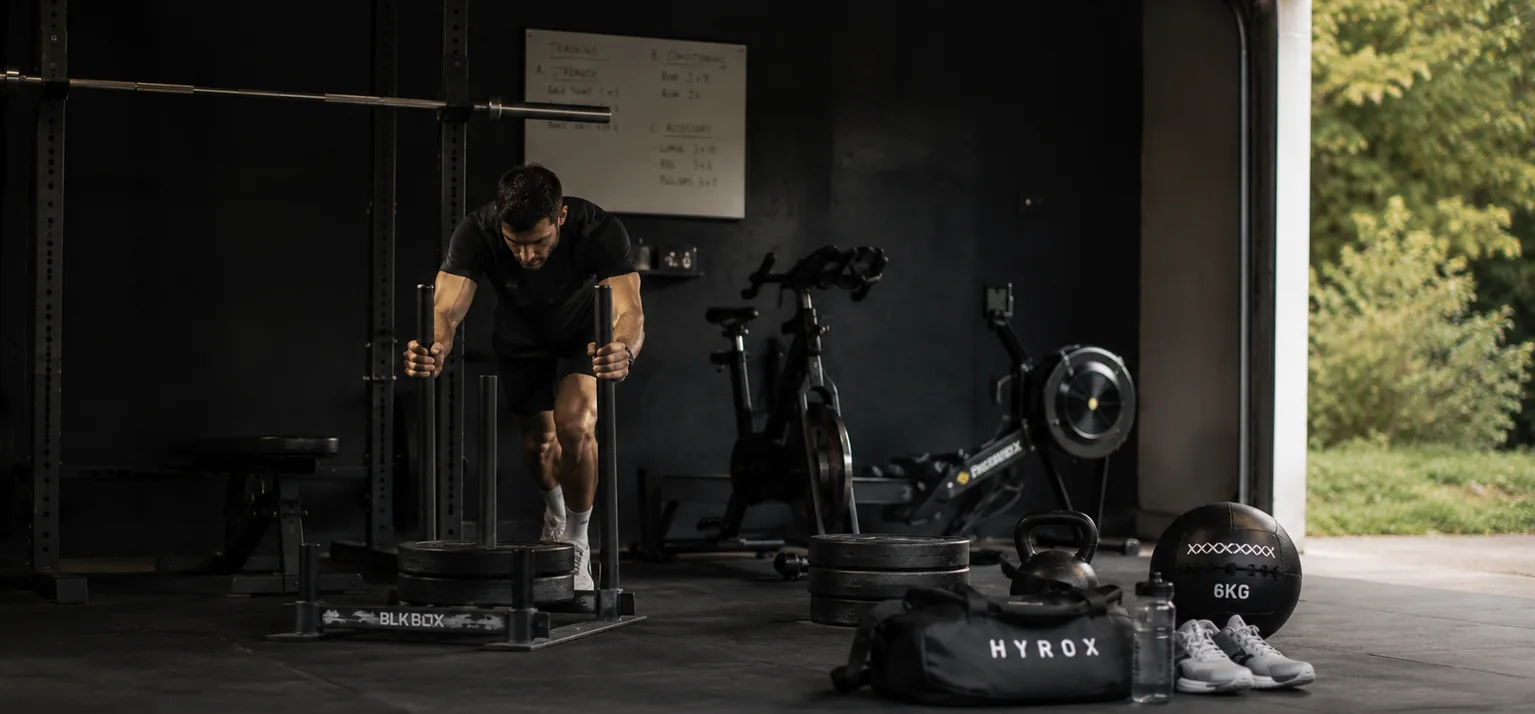
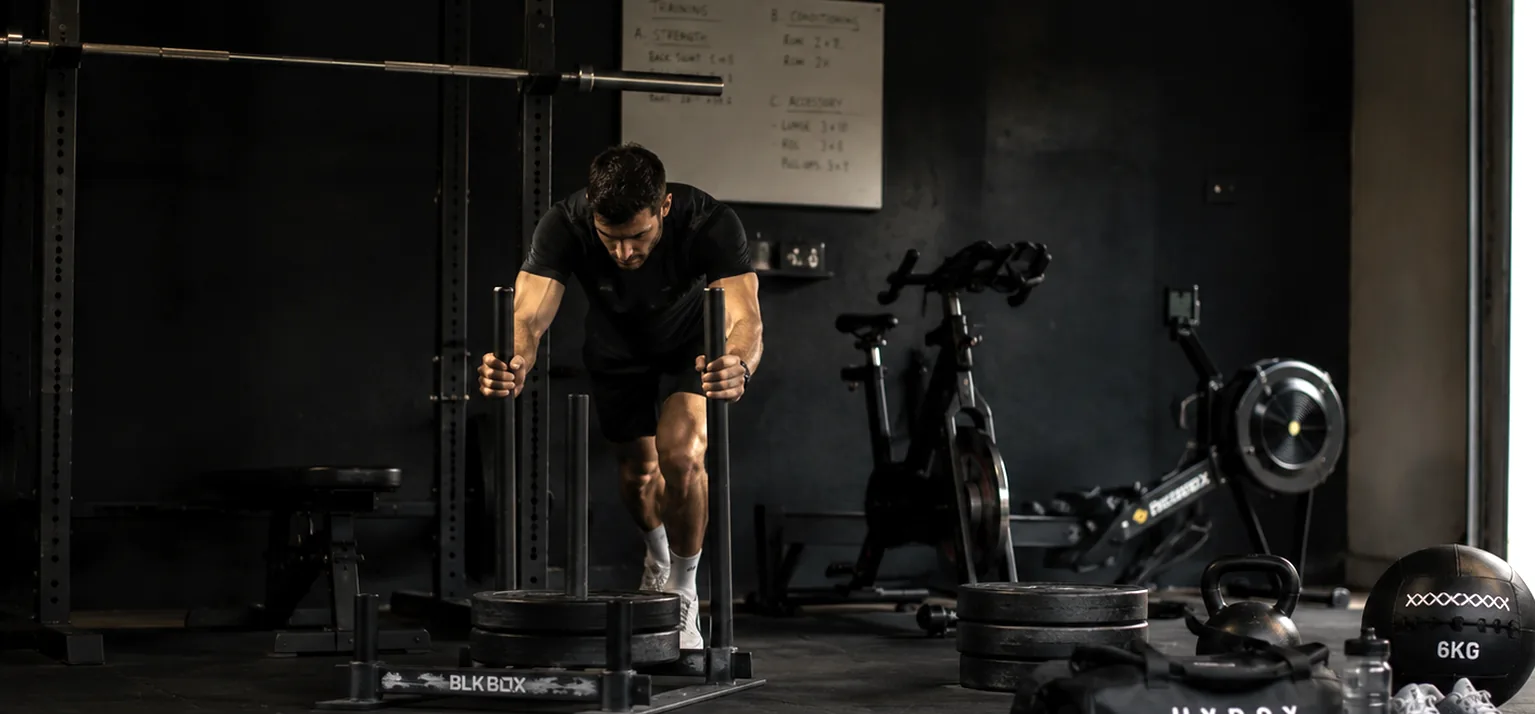
Add files via upload

diff --git a/plans/index.html b/plans/index.html
@@ -1,0 +1,134 @@
+<!DOCTYPE html>
+<html lang="en">
+<head>
+  <meta charset="UTF-8" />
+  <meta name="viewport" content="width=device-width, initial-scale=1, viewport-fit=cover" />
+  <base href="https://louistucker31.github.io/hybrid-performance/" />
+  <link rel="icon" type="image/svg+xml" href="assets/favicon.svg" />
+  <link rel="icon" type="image/png" href="assets/favicon.png" />
+  <link rel="apple-touch-icon" href="assets/apple-touch-icon.png" />
+  <title>Training Plans | Hybrid Performance Coaching</title>
+  <meta name="description" content="Structured strength and endurance training plans you follow on your own, with a PDF guide, spreadsheet tracker and full session breakdowns." />
+  <meta property="og:title" content="Training Plans | Hybrid Performance Coaching" />
+  <meta property="og:description" content="Structured strength and endurance training plans you follow on your own, with a PDF guide, spreadsheet tracker and full session breakdowns." />
+  <meta property="og:type" content="website" />
+  <meta property="og:image" content="https://hybridperformancecoaching.co.uk/assets/og-image.png" />
+  <link rel="preconnect" href="https://fonts.googleapis.com" />
+  <link rel="preconnect" href="https://fonts.gstatic.com" crossorigin />
+  <link href="https://fonts.googleapis.com/css2?family=Inter:wght@400;500;600;700&family=Oswald:wght@500;600;700&display=swap" rel="stylesheet" />
+  <link rel="stylesheet" href="css/style.css" />
+  <link rel="canonical" href="https://hybridperformancecoaching.co.uk/plans/" />
+</head>
+<body data-page="plans">
+  <div id="site-header"></div>
+
+  <main id="main">
+    <section class="page-hero-dark">
+      <div class="container">
+        <span class="eyebrow">Triathlon &amp; Endurance Plans</span>
+        <h1>Plans for people who train with purpose.</h1>
+        <p>Structured strength and endurance plans you follow on your own. View the plans on Gumroad below.</p>
+        <p class="small" style="margin-top:1rem; color:rgba(255,255,255,0.75)">Not sure this is the right fit? <a href="find-your-plan/" style="color:#7de3ab; font-weight:600">Find your plan &rarr;</a></p>
+      </div>
+    </section>
+
+    <section class="section band">
+      <div class="container">
+        <h2>Available training plans</h2>
+        <p class="muted" style="margin-top:0.6rem; max-width:64ch">Every plan includes a PDF guide, a spreadsheet tracker, weekly structure, session breakdowns, progression and substitutions, plus notes on fatigue and recovery.</p>
+
+        <div class="plan-list" style="margin-top:1.75rem">
+          <div class="plan-row">
+            <div>
+              <div class="plan-row__meta">
+                <span class="tag">Beginner</span>
+              </div>
+              <h3>5K Plan for Lifters</h3>
+              <p>Start running without abandoning the gym or losing strength. Run progression managed around leg days.</p>
+            </div>
+            <a class="btn btn--primary" href="5k-plan-for-lifters/">See plan details</a>
+          </div>
+
+          <div class="plan-row">
+            <div>
+              <div class="plan-row__meta">
+                <span class="tag">Triathlon</span>
+              </div>
+              <h3>First Sprint Triathlon</h3>
+              <p>Your first sprint triathlon while keeping meaningful strength work in the week, with a race-week taper.</p>
+            </div>
+            <a class="btn btn--primary" href="first-sprint-triathlon/">See plan details</a>
+          </div>
+
+          <div class="plan-row plan-row--soon">
+            <div>
+              <div class="plan-row__meta">
+                <span class="tag tag--muted">Endurance</span>
+              </div>
+              <h3>Century Ride Blueprint</h3>
+              <p>Train toward a long-distance cycling event with progressive long rides, fuelling guidance and strength for durability.</p>
+            </div>
+            <span class="btn btn--ghost" aria-disabled="true" style="pointer-events:none; color:var(--ink-faint)">Coming Soon</span>
+          </div>
+        </div>
+
+        <div style="text-align:center; margin-top:1.75rem">
+          <a class="btn btn--ghost" href="bespoke/">Want a bespoke plan instead?</a>
+        </div>
+      </div>
+    </section>
+
+    <section class="section">
+      <div class="container" style="max-width:760px">
+        <div class="section-head">
+          <span class="eyebrow">FAQs</span>
+          <h2>Common questions about the plans.</h2>
+        </div>
+        <div>
+          <details class="faq-item">
+            <summary>What's included in each training plan?</summary>
+            <p>Every plan comes with a PDF guide and a spreadsheet tracker, covering weekly structure, session breakdowns, progression and substitutions, plus notes on managing fatigue and recovery.</p>
+          </details>
+          <details class="faq-item">
+            <summary>Do I need a gym membership to follow these plans?</summary>
+            <p>A gym or a well-equipped home setup works. Each plan notes what equipment the sessions assume, and substitutions are included if something isn't available to you.</p>
+          </details>
+          <details class="faq-item">
+            <summary>Are these plans suitable for beginners?</summary>
+            <p>Yes, plans are labelled by level (Beginner, Triathlon, Endurance) so you can pick the one that matches where you're starting from.</p>
+          </details>
+          <details class="faq-item">
+            <summary>How do I get the plan after I buy it?</summary>
+            <p>Plans are sold through Gumroad and delivered instantly as a digital download, the PDF guide and spreadsheet tracker land in your inbox as soon as payment goes through.</p>
+          </details>
+          <details class="faq-item">
+            <summary>Is there support included, or am I following it alone?</summary>
+            <p>These are self-guided plans you follow independently. If you'd prefer ongoing input or something built around you specifically, a Bespoke Plan is the better fit.</p>
+          </details>
+          <details class="faq-item">
+            <summary>Is there a triathlon training plan?</summary>
+            <p>Yes, the First Sprint Triathlon plan is built for exactly that, with a Century Ride Blueprint for cyclists coming soon.</p>
+          </details>
+        </div>
+      </div>
+    </section>
+
+    <section class="section cta-band">
+      <div class="container">
+        <div class="section-head" style="text-align:center">
+          <span class="eyebrow">Get started</span>
+          <h2>Not sure which plan is right?</h2>
+          <p>Find your plan in under a minute, or go bespoke if you want something built entirely around you.</p>
+        </div>
+        <div class="btn-row" style="justify-content:center">
+          <a class="btn btn--ath-primary" href="find-your-plan/">Find your plan</a>
+          <a class="btn btn--ath-ghost" href="bespoke/">Explore Bespoke</a>
+        </div>
+      </div>
+    </section>
+  </main>
+
+  <div id="site-footer"></div>
+  <script src="js/main.js"></script>
+</body>
+</html>

diff --git a/css/style.css b/css/style.css
@@ -655,3 +655,23 @@ body[data-page="bespoke"] .price .ribbon { display: block; margin-bottom: 0.6rem
 
 body[data-page="bespoke"] #packages .grid-3 { align-items: center; }
 body[data-page="bespoke"] .price--feature { padding-top: calc(clamp(1.4rem, 3vw, 1.9rem) + 0.85rem); padding-bottom: calc(clamp(1.4rem, 3vw, 1.9rem) + 0.85rem); }
+
+/* ==========================================================
+   Plans page - Bold Athletic
+   ========================================================== */
+body[data-page="plans"] .btn { border-radius: 0; }
+body[data-page="plans"] .tag { border-radius: 0; }
+body[data-page="plans"] h2,
+body[data-page="plans"] .plan-row h3 { font-family: 'Oswald', sans-serif; text-transform: uppercase; letter-spacing: 0.02em; }
+body[data-page="plans"] .plan-row {
+  border: 2px solid var(--ink);
+  border-radius: 0;
+  box-shadow: none;
+}
+body[data-page="plans"] .plan-row:hover {
+  border-color: var(--accent);
+  box-shadow: none;
+}
+body[data-page="plans"] .plan-row--soon {
+  border-color: var(--line-strong);
+}